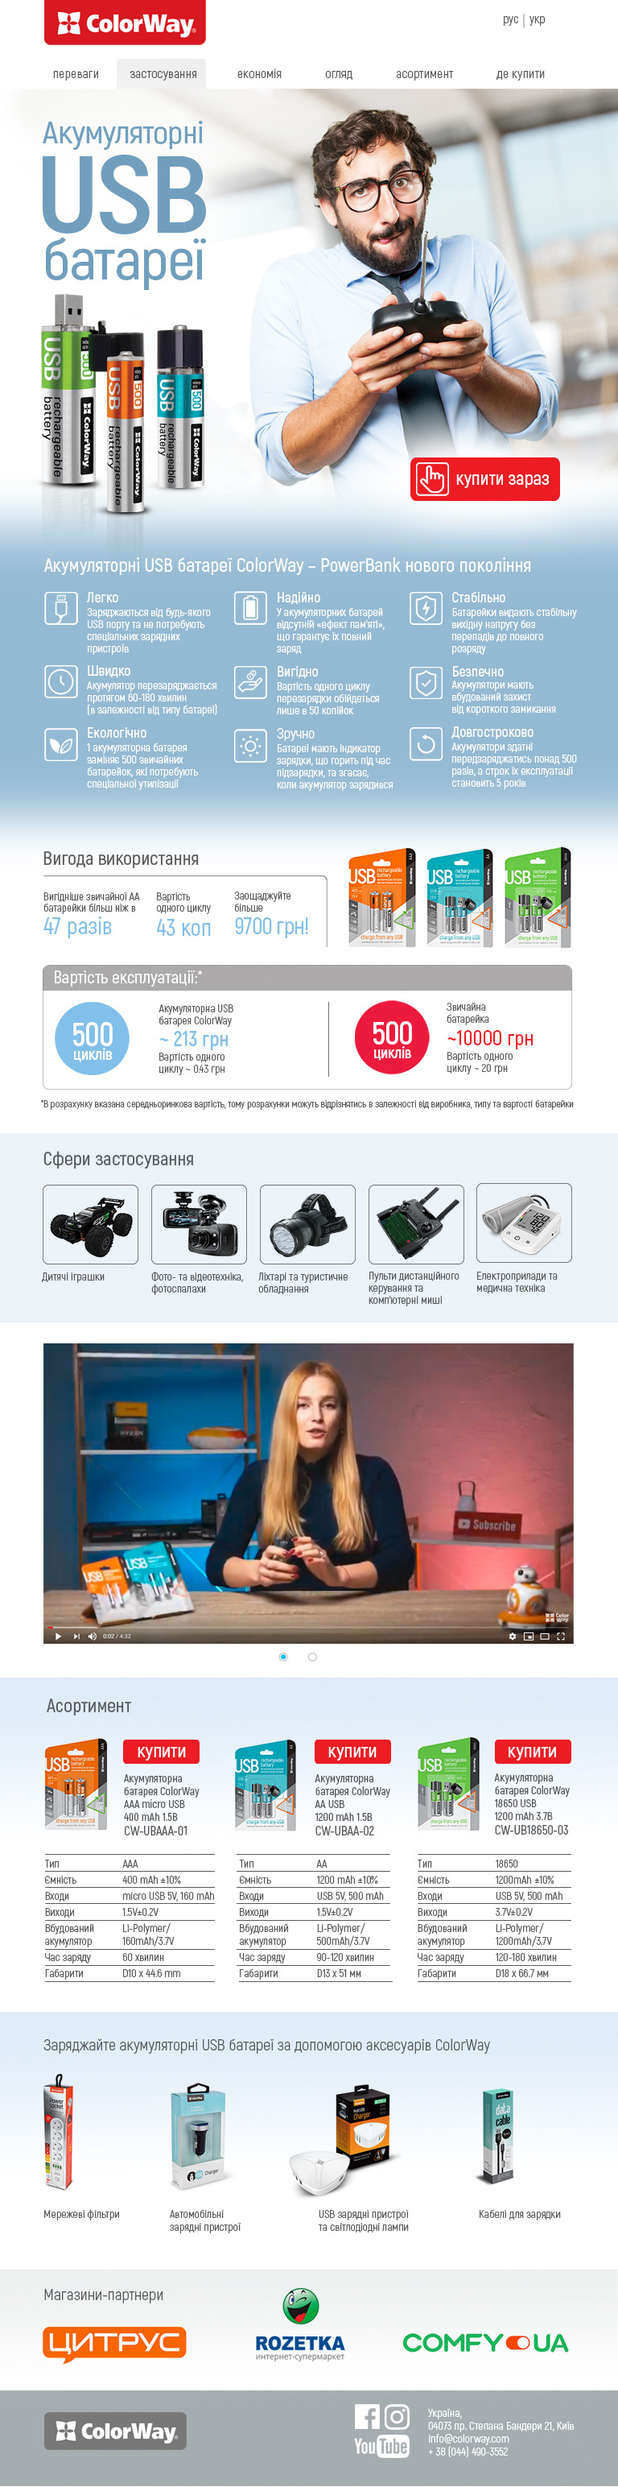
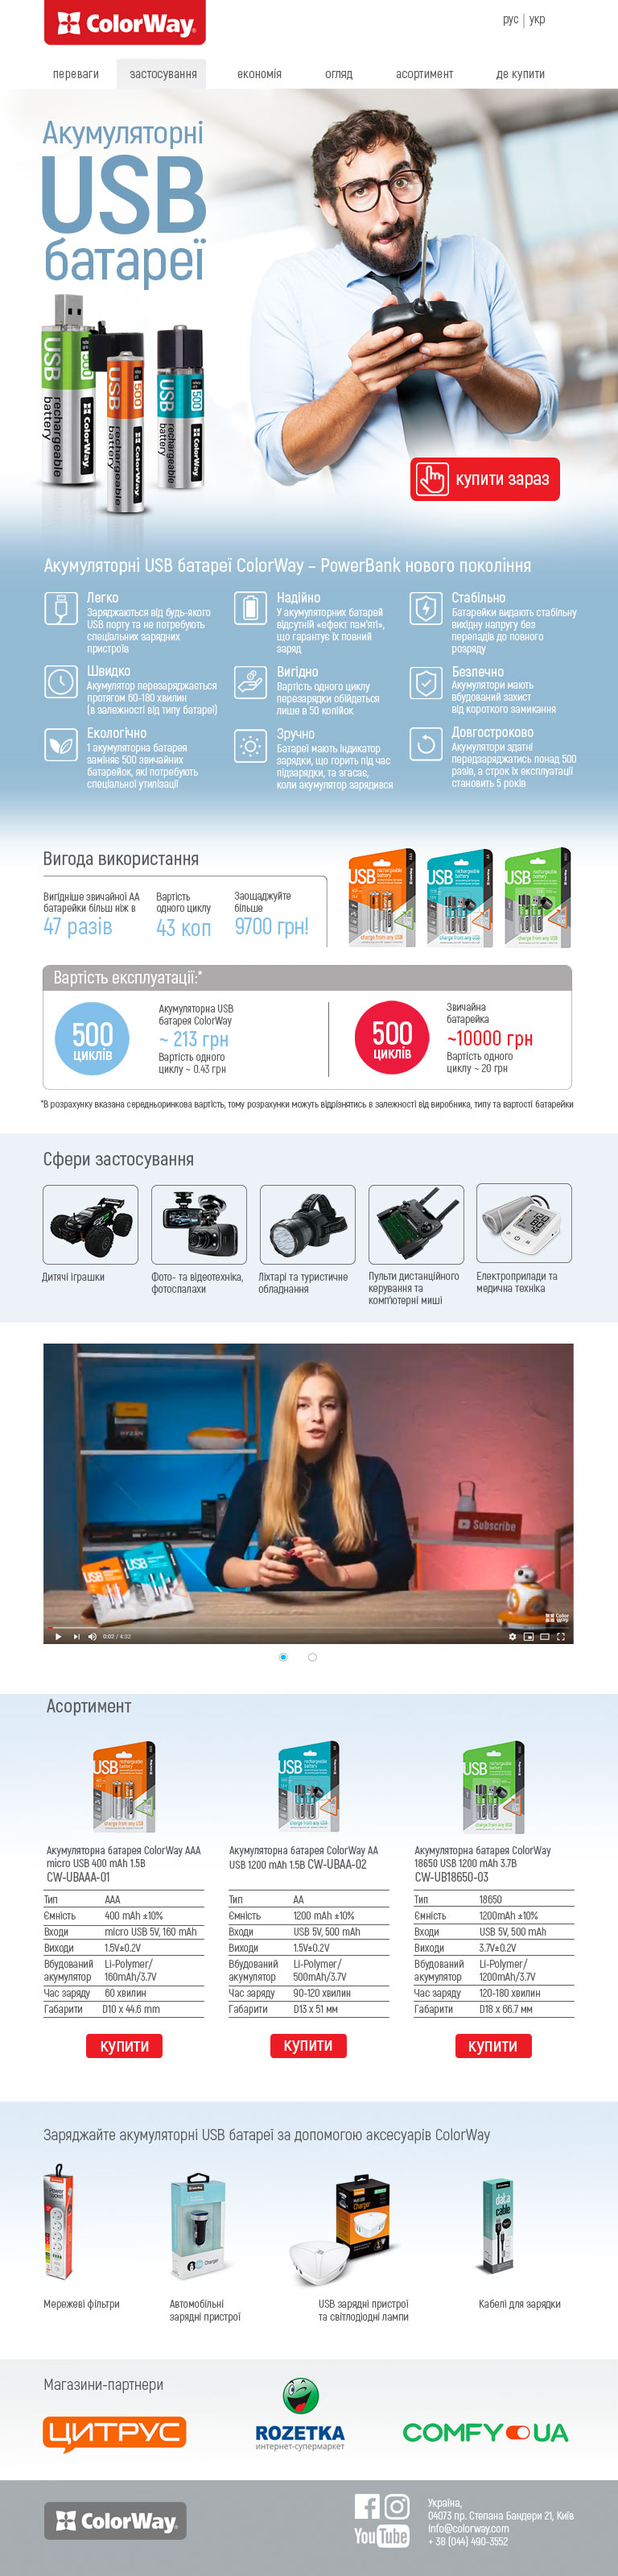
added new tablet & mobile design

diff --git a/sass/global.scss b/sass/global.scss
@@ -16,13 +16,13 @@ img {
 @media (min-width: $screen-md) {
   body {
     background: url("/_design/battery_tablet.jpg") no-repeat center top;
-    min-height: 3088px;
+    min-height: 3198px;
   }
 }
 
 @media (min-width: $screen-lg) {
   body {
     background: url("/_design/battery_desktop.jpg") no-repeat center top;
-    min-height: 4447px;
+    min-height: 4584px;
   }
 }
